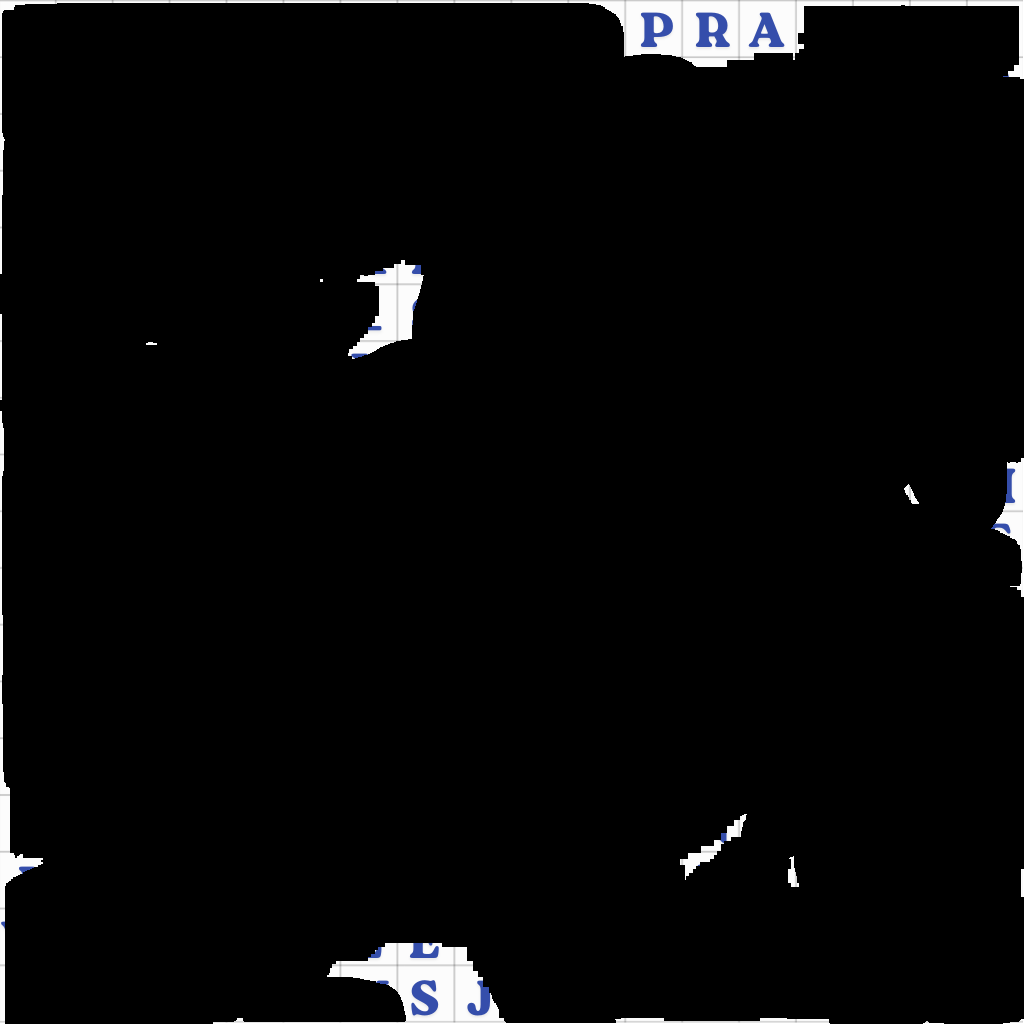
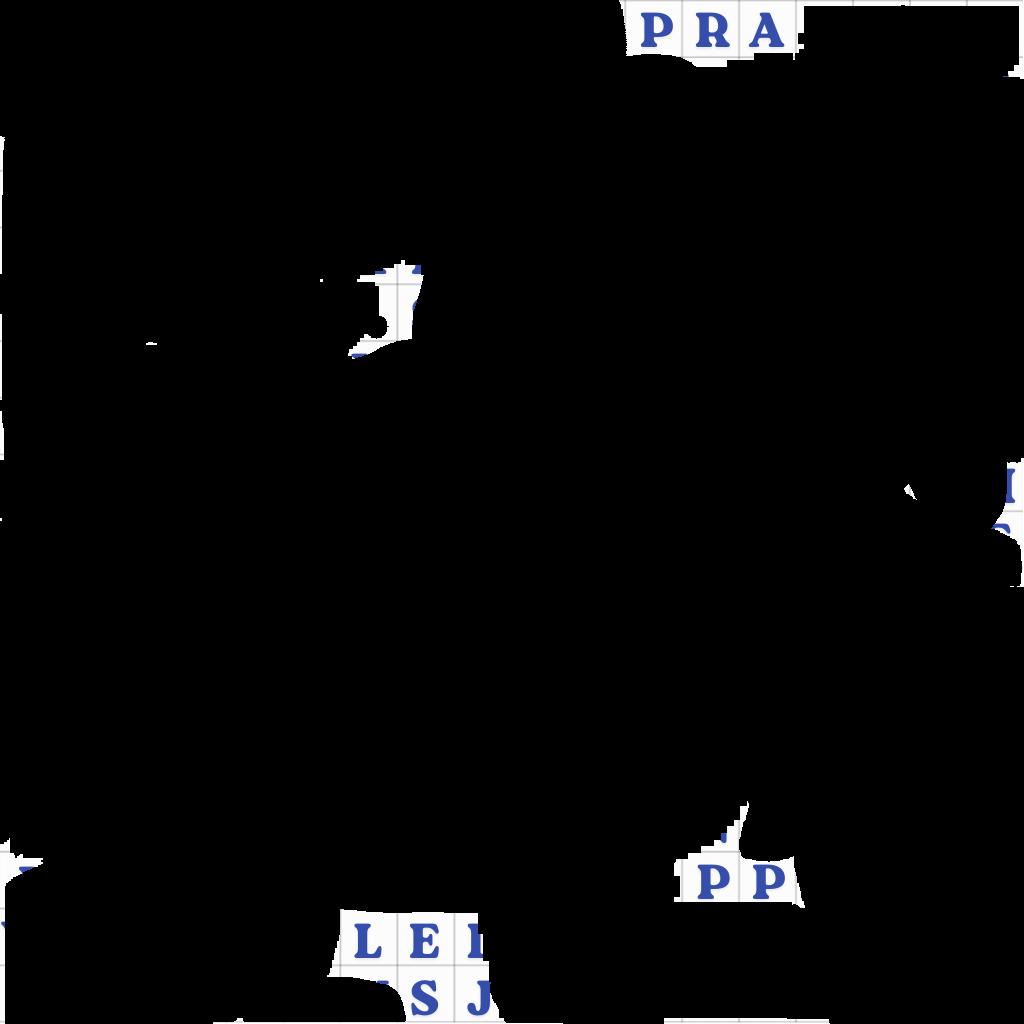
MOLDOVA WORKS YAY

diff --git a/Moldova/main.py b/Moldova/main.py
@@ -16,29 +16,72 @@ def overlay_masks_on_flag(flag_path, masks_folder, output_path):
         print("No mask files found.")
         return
 
-    # Combine all masks
-    combined_mask = np.zeros((flag_img.shape[0], flag_img.shape[1]), dtype=np.uint8)
-    for mask_file in mask_files:
-        mask = cv2.imread(mask_file, cv2.IMREAD_GRAYSCALE)
-        if mask is None:
+        # Masks to use from edited folder
+        edited_names = {"apple_1_mask_mrcnn.png", "apple_4_mask_mrcnn.png", "apple_7_mask_mrcnn.png", "apple_11_mask_mrcnn.png", "apple_13_mask_mrcnn.png", "apple_25_mask_mrcnn.png"}
+
+        combined_mask = np.zeros((flag_img.shape[0], flag_img.shape[1]), dtype=np.uint8)
+        for mask_file in mask_files:
+            mask_name = os.path.basename(mask_file)
+            if mask_name in edited_names:
+                mask_path = os.path.join(edited_folder, mask_name)
+                if not os.path.exists(mask_path):
+                    print(f"Edited mask not found for {mask_name}, using automatic.")
+                    mask_path = mask_file
+            else:
+                mask_path = mask_file
+            mask = cv2.imread(mask_path, cv2.IMREAD_GRAYSCALE)
+            if mask is None:
+                continue
+            mask_resized = cv2.resize(mask, (flag_img.shape[1], flag_img.shape[0]), interpolation=cv2.INTER_NEAREST)
+            combined_mask = cv2.bitwise_or(combined_mask, mask_resized)
+
+        # Overlay: where mask is 255, set flag image to black
+        flag_masked = flag_img.copy()
+        flag_masked[combined_mask == 255] = 0
+
+        # Save result
+        cv2.imwrite(output_path, flag_masked)
+        print(f"Overlay of selected masks on flag saved to {output_path}")
+
+    # --- Post-processing: keep largest, roundest regions ---
+    mask_proc = combined_mask_np.copy()
+    contours, _ = cv2.findContours(mask_proc, cv2.RETR_EXTERNAL, cv2.CHAIN_APPROX_SIMPLE)
+    filtered_mask = np.zeros_like(mask_proc)
+    # Stricter settings for specific images
+    hard_mode_files = {"apple_1.jpg", "apple_4.jpg", "apple_7.jpg", "apple_11.jpg", "apple_13.png", "apple_25.png"}
+    area_thresh = 500
+    round_thresh = 0.5
+    if fname in hard_mode_files:
+        area_thresh = 1200  # increase area threshold
+        round_thresh = 0.7  # increase roundness threshold
+    for cnt in contours:
+        area = cv2.contourArea(cnt)
+        if area < area_thresh:
             continue
-        mask_resized = cv2.resize(mask, (flag_img.shape[1], flag_img.shape[0]), interpolation=cv2.INTER_NEAREST)
-        combined_mask = cv2.bitwise_or(combined_mask, mask_resized)
+        perimeter = cv2.arcLength(cnt, True)
+        if perimeter == 0:
+            continue
+        roundness = 4 * np.pi * area / (perimeter * perimeter)
+        if roundness > round_thresh:
+            cv2.drawContours(filtered_mask, [cnt], -1, 255, -1)
 
-    # Overlay: where mask is 255, set flag image to black
-    flag_masked = flag_img.copy()
-    flag_masked[combined_mask == 255] = 0
+    # Save binary mask
+    cv2.imwrite(output_mask, filtered_mask)
+    print(f"Mask R-CNN mask saved to {output_mask}")
 
-    # Save result
-    cv2.imwrite(output_path, flag_masked)
-    print(f"Overlay of masks on flag saved to {output_path}")
-
-# ...existing code...
-if __name__ == "__main__":
-    # ...existing code...
-    overlay_masks_on_flag(
+    # Overlay mask on image for visualization
+    img_cv = cv2.cvtColor(np.array(img_pil), cv2.COLOR_RGB2BGR)
+    mask_resized = cv2.resize(filtered_mask, (img_cv.shape[1], img_cv.shape[0]), interpolation=cv2.INTER_NEAREST)
+    mask_resized = mask_resized.astype(np.uint8)
+    mask_rgb = cv2.cvtColor(mask_resized, cv2.COLOR_GRAY2BGR)
+    alpha = 0.9
+    overlay = cv2.addWeighted(mask_rgb, alpha, img_cv, 1 - alpha, 0)
+    cv2.imwrite(output_overlay, overlay)
+    print(f"Mask R-CNN overlay saved to {output_overlay}")
+    overlay_selected_masks_on_flag(
         flag_path="input_flag.png",
         masks_folder="BinaryMasks",
+        edited_folder="BinaryMasks/edited",
         output_path="BinaryMasks/flag_with_apples_masked.png"
     )
 

diff --git a/Moldova/edit_mask_all_except_manual.py b/Moldova/edit_mask_all_except_manual.py
@@ -1,0 +1,67 @@
+import cv2
+import os
+import numpy as np
+
+
+MASKS_DIR = "BinaryMasks"
+OUTPUT_DIR = "BinaryMasks/edited_all"
+os.makedirs(OUTPUT_DIR, exist_ok=True)
+
+# List all mask files
+mask_files = [f for f in os.listdir(MASKS_DIR) if f.endswith('_mask_mrcnn.png')]
+mask_files.sort()
+
+editing = False
+mode = 'draw'  # 'draw' or 'erase'
+
+def mouse_event(event, x, y, flags, param):
+    global editing, mode, mask_img
+    if event == cv2.EVENT_LBUTTONDOWN:
+        editing = True
+        mode = 'draw'
+    elif event == cv2.EVENT_RBUTTONDOWN:
+        editing = True
+        mode = 'erase'
+    elif event == cv2.EVENT_LBUTTONUP or event == cv2.EVENT_RBUTTONUP:
+        editing = False
+    elif event == cv2.EVENT_MOUSEMOVE and editing:
+        color = 255 if mode == 'draw' else 0
+        cv2.circle(mask_img, (x, y), 10, color, -1)
+
+for mask_name in mask_files:
+    # Get corresponding apple image
+    img_name = mask_name.replace('_mask_mrcnn.png', '.jpg').replace('_mask_mrcnn.png', '.png')
+    img_path_jpg = os.path.join(MASKS_DIR.replace('BinaryMasks', 'Apples'), img_name.replace('.png', '.jpg'))
+    img_path_png = os.path.join(MASKS_DIR.replace('BinaryMasks', 'Apples'), img_name.replace('.jpg', '.png'))
+    if os.path.exists(os.path.join(OUTPUT_DIR, mask_name)):
+        print(f"Already edited: {mask_name}, skipping.")
+        continue
+    if os.path.exists(img_path_jpg):
+        apple_img = cv2.imread(img_path_jpg)
+    elif os.path.exists(img_path_png):
+        apple_img = cv2.imread(img_path_png)
+    else:
+        print(f"Could not find apple image for {mask_name}")
+        continue
+    h, w = apple_img.shape[:2]
+    mask_img = np.zeros((h, w), dtype=np.uint8)  # always start with blank mask
+    cv2.namedWindow("Edit Mask")
+    cv2.setMouseCallback("Edit Mask", mouse_event)
+    print(f"Editing {mask_name}: Left-click to draw, Right-click to erase, 's' to save, 'n' for next image, 'q' to quit.")
+    while True:
+        mask_rgb = cv2.cvtColor(mask_img, cv2.COLOR_GRAY2BGR)
+        overlay = cv2.addWeighted(mask_rgb, 0.5, apple_img, 0.5, 0)
+        cv2.imshow("Edit Mask", overlay)
+        key = cv2.waitKey(1) & 0xFF
+        if key == ord('s'):
+            out_path = os.path.join(OUTPUT_DIR, mask_name)
+            cv2.imwrite(out_path, mask_img)
+            print(f"Saved to {out_path}")
+        elif key == ord('n'):
+            break
+        elif key == ord('q'):
+            cv2.destroyAllWindows()
+            print("Exited early.")
+            exit(0)
+    cv2.destroyAllWindows()
+print("Done editing masks.")

diff --git a/Moldova/overlay_flag_final.py b/Moldova/overlay_flag_final.py
@@ -1,0 +1,54 @@
+import cv2
+import os
+import numpy as np
+import glob
+
+FLAG_PATH = "input_flag.png"
+EDITED_MANUAL = "BinaryMasks/edited"
+EDITED_REST = "BinaryMasks/edited_all_except_manual"
+EXTRA_MASK = "BinaryMasks/apple_22_mask_mrcnn.png"
+OUTPUT_PATH = "BinaryMasks/flag_with_apples_masked_final.png"
+
+# Load flag image
+flag_img = cv2.imread(FLAG_PATH)
+if flag_img is None:
+    raise FileNotFoundError(f"Flag image not found: {FLAG_PATH}")
+
+combined_mask = np.zeros((flag_img.shape[0], flag_img.shape[1]), dtype=np.uint8)
+
+# Add all masks from edited manual folder
+for mask_file in glob.glob(os.path.join(EDITED_MANUAL, '*_mask_mrcnn.png')):
+    mask = cv2.imread(mask_file, cv2.IMREAD_GRAYSCALE)
+    if mask is None:
+        print(f"Could not load mask: {mask_file}")
+        continue
+    mask_resized = cv2.resize(mask, (flag_img.shape[1], flag_img.shape[0]), interpolation=cv2.INTER_NEAREST)
+    combined_mask = cv2.bitwise_or(combined_mask, mask_resized)
+
+# Add all masks from edited rest folder
+for mask_file in glob.glob(os.path.join(EDITED_REST, '*_mask_mrcnn.png')):
+    mask = cv2.imread(mask_file, cv2.IMREAD_GRAYSCALE)
+    if mask is None:
+        print(f"Could not load mask: {mask_file}")
+        continue
+    mask_resized = cv2.resize(mask, (flag_img.shape[1], flag_img.shape[0]), interpolation=cv2.INTER_NEAREST)
+    combined_mask = cv2.bitwise_or(combined_mask, mask_resized)
+
+# Add the extra mask
+if os.path.exists(EXTRA_MASK):
+    mask = cv2.imread(EXTRA_MASK, cv2.IMREAD_GRAYSCALE)
+    if mask is not None:
+        mask_resized = cv2.resize(mask, (flag_img.shape[1], flag_img.shape[0]), interpolation=cv2.INTER_NEAREST)
+        combined_mask = cv2.bitwise_or(combined_mask, mask_resized)
+    else:
+        print(f"Could not load mask: {EXTRA_MASK}")
+else:
+    print(f"Extra mask not found: {EXTRA_MASK}")
+
+# Overlay: where mask is 255, set flag image to black
+flag_masked = flag_img.copy()
+flag_masked[combined_mask == 255] = 0
+
+# Save result
+cv2.imwrite(OUTPUT_PATH, flag_masked)
+print(f"Final overlay of all masks on flag saved to {OUTPUT_PATH}")

diff --git a/Moldova/overlay_flag_with_selected_masks.py b/Moldova/overlay_flag_with_selected_masks.py
@@ -1,0 +1,34 @@
+import cv2
+import os
+import numpy as np
+import glob
+
+FLAG_PATH = "input_flag.png"
+MASKS_FOLDER = "binaryMarks/edited_all"
+OUTPUT_PATH = "binaryMarks/flag_with_apples_masked_all.png"
+
+
+# Load flag image
+flag_img = cv2.imread(FLAG_PATH)
+if flag_img is None:
+    raise FileNotFoundError(f"Flag image not found: {FLAG_PATH}")
+
+# Get all mask files in edited_all folder
+mask_files = sorted(glob.glob(os.path.join(MASKS_FOLDER, '*.png')))
+combined_mask = np.zeros((flag_img.shape[0], flag_img.shape[1]), dtype=np.uint8)
+for mask_file in mask_files:
+    mask = cv2.imread(mask_file, cv2.IMREAD_GRAYSCALE)
+    if mask is None:
+        print(f"Could not load mask: {mask_file}")
+        continue
+    mask_resized = cv2.resize(mask, (flag_img.shape[1], flag_img.shape[0]), interpolation=cv2.INTER_NEAREST)
+    combined_mask = cv2.bitwise_or(combined_mask, mask_resized)
+
+
+# Overlay: where mask is 255, set flag image to black
+flag_masked = flag_img.copy()
+flag_masked[combined_mask == 255] = 0
+
+# Save result
+cv2.imwrite(OUTPUT_PATH, flag_masked)
+print(f"Overlay of all masks in {MASKS_FOLDER} on flag saved to {OUTPUT_PATH}")
